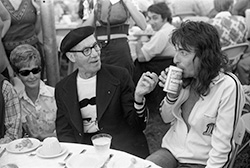
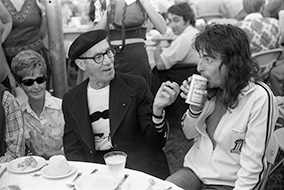
Changes made for Box Model assignment

diff --git a/gallery.html b/gallery.html
@@ -9,6 +9,7 @@
       <link rel="icon" type="image/x-icon" href="images/favicon.ico">
       <link rel="apple-touch-icon" href="images/apple-icon.png"/>
       <link rel="stylesheet" href="css/styles.css" />
+      <link rel="stylesheet" href="css/layout.css" />
    </head>
 
    <body>
@@ -17,57 +18,72 @@
         <h1>The Life of Groucho Marx</h1>
     </header>
 
-        <nav>
-            <a href="index.html">Home</a> | <a href="about.html">About</a> | <a href="gallery.html">Gallery</a> | <a href="faq.html">FAQs</a> | <a href="contact-us.html">Contact</a> 
-        </nav>
+    <nav class="topnav">
+        <a class="active" href="index.html">Home</a>
+        <a href="about.html">About</a>
+        <a href="gallery.html">Gallery</a>
+        <a href="faq.html">FAQs</a>
+        <a href="contact-us.html">Contact</a>
+    </nav>
 
         <h2>Rouge's Gallery</h2>
             
-            <figure>
-                <a href="images/gmarx01-lg.jpg" target="_blank"><img src="images/gmarx01-thumb.jpg" height="240" width="190" alt="Headshot of Groucho Marx"></a>
-                <figcaption><em>Headshot of Groucho Marx</em></figcaption>
-            </figure>
+            <article>
+                <h3>Mugshot</h3>
+                <figure>
+                    <a href="images/gmarx01-lg.jpg" target="_blank"><img src="images/gmarx01-thumb.jpg" height="190" width="100" alt="Headshot of Groucho Marx"></a>
+                    <figcaption><em>Headshot of Groucho Marx</em></figcaption>
+                </figure>
+                <p>In this portrait, we can see his iconic mustache, eyebrows, glasses, and cigar combo. Originally only a costume choice for his characters on stage, Marx eventually adopted it as his own personal look later in life.</p>
+            </article>
+
+            <article>
+                <h3>Brothers-in-Arms</h3>
+                <figure>
+                    <a href="images/gmarx02-lg.jpg" target="_blank"><img src="images/gmarx02-thumb.jpg" height="190" width="250" alt="Harpo & Groucho Marx"></a>
+                    <figcaption><em>Harpo & Groucho Marx</em></figcaption>
+                </figure>
+                <p>Groucho's younger brother, Harpo Marx often played the silly, silent foil to Groucho's loud, wise-cracking characters. The two remained close throughout their entire lives.</p>
+            </article>
+
+            <article>
+                <h3>Laidback</h3>
+                <figure>
+                    <a href="images/gmarx03-lg.jpg" target="_blank"><img src="images/gmarx03-thumb.jpg" height="190" width="250" alt="Groucho Marx in 'A Night at the Opera'"></a>
+                    <figcaption><em>Groucho Marx in "A Night at the Opera"</em></figcaption>
+                </figure>
+                <p>Like most comedic actors during the pre- and post-war period, Groucho's antics tended to be oriented around slapstick or oddball behavior. This exact film would later on inspire Freddie Mercury to create the renowned Queen album of the same name.</p>
+            </article>
+
+            <article>
+                <h3>Waddya Lookin' At?</h3>
+                <figure>
+                    <a href="images/gmarx04-lg.jpg" target="_blank"><img src="images/gmarx04-thumb.jpg" height="190" width="250" alt="Groucho heckling a crowd"></a>
+                    <figcaption><em>Groucho heckling a crowd</em></figcaption>
+                </figure>
+                <p>The Marx Brother's career began when the brothers started heckling a crowd of hecklers back during a shoddy singing performance. They stopped singing ever since.</p>
+            </article>
+
+            <article>
+                <h3>Ole' Pals</h3>
+                <figure>
+                    <a href="images/gmarx05-lg.jpg" target="_blank"><img src="images/gmarx05-thumb.jpg" height="190" width="250" alt="Groucho Marx and Alice Cooper dining together"></a>
+                    <figcaption><em>Groucho Marx and Alice Cooper dining together</em></figcaption>
+                </figure>
+                <p>Groucho Marx was close with many stars, including Alice Cooper, Elton John, and Dick Cavett. Elton John's album <em>Don't Shoot Me, I'm Only the Piano Player</em> was named after an exchange Marx had with John while drinking together.</p>
+            </article>
+
+            <article>
+                <h3>Birdie</h3>
+                <figure>
+                    <a href="images/gmarx06-lg.jpg" target="_blank"><img src="images/gmarx06-thumb.jpg" height="190" width="180" alt="Groucho slyly flying the finger"></a>
+                    <figcaption><em>Groucho slyly flying the finger</em></figcaption> 
+                </figure>
+                <p>A master of subtlty and brutish humor, Marx encapsulated the strange humor of turn-of-the-century men. Simultaneously sophisticated and boorish; relatable but ridiculous.</p>
+            </article>
+
+
             
-            <p>In this portrait, we can see his iconic mustache, eyebrows, glasses, and cigar combo. Originally only a costume choice for his characters on stage, Marx eventually adopted it as his own personal look later in life.</p>
-            
-
-            <figure>
-                <a href="images/gmarx02-lg.jpg" target="_blank"><img src="images/gmarx02-thumb.jpg" height="192" width="250" alt="Harpo & Groucho Marx"></a>
-                <figcaption><em>Harpo & Groucho Marx</em></figcaption>
-            </figure>
-
-            <p>Groucho's younger brother, Harpo Marx often played the silly, silent foil to Groucho's loud, wise-cracking characters. The two remained close throughout their entire lives.</p>
-
-            <figure>
-                <a href="images/gmarx03-lg.jpg" target="_blank"><img src="images/gmarx03-thumb.jpg" height="181" width="250" alt="Groucho Marx in 'A Night at the Opera'"></a>
-                <figcaption><em>Groucho Marx in "A Night at the Opera"</em></figcaption>
-            </figure>
-
-            <p>Like most comedic actors during the pre- and post-war period, Groucho's antics tended to be oriented around slapstick or oddball behavior. This exact film would later on inspire Freddie Mercury to create the renowned Queen album of the same name.</p>
-
-
-            <figure>
-                <a href="images/gmarx04-lg.jpg" target="_blank"><img src="images/gmarx04-thumb.jpg" height="183" width="250" alt="Groucho heckling a crowd"></a>
-                <figcaption><em>Groucho heckling a crowd</em></figcaption>
-            </figure>
-
-            <p>The Marx Brother's career began when the brothers started heckling a crowd of hecklers back during a shoddy singing performance. They stopped singing ever since.</p>
-
-            <figure>
-                <a href="images/gmarx05-lg.jpg" target="_blank"><img src="images/gmarx05-thumb.jpg" height="168" width="250" alt="Groucho Marx and Alice Cooper dining together"></a>
-                <figcaption><em>Groucho Marx and Alice Cooper dining together</em></figcaption>
-            </figure>
-
-            <p>Groucho Marx was close with many stars, including Alice Cooper, Elton John, and Dick Cavett. Elton John's album <em>Don't Shoot Me, I'm Only the Piano Player</em> was named after an exchange Marx had with John while drinking together.</p>
-
-
-            <figure>
-                <a href="images/gmarx06-lg.jpg" target="_blank"><img src="images/gmarx06-thumb.jpg" height="222" width="200" alt="Groucho slyly flying the finger"></a>
-                <figcaption><em>Groucho slyly flying the finger</em></figcaption> 
-            </figure>
-
-            <p>A master of subtlty and brutish humor, Marx encapsulated the strange humor of turn-of-the-century men. Simultaneously sophisticated and boorish; relatable but ridiculous.</p>
-
         <hr>
     
     <footer>

diff --git a/css/layout.css b/css/layout.css
@@ -1,0 +1,44 @@
+article {
+    float: left;
+    border: solid medium #d33b2d;
+    border-radius: 1em;
+    width: 45%;
+    margin: 2%;
+    margin-top: 1em;
+    margin-bottom: 2em ; 
+    clear: right;
+    border-style: double; }
+
+article h3 {
+    padding: 0 20px;
+    background-color: ;
+    border-radius: 7px 7px 0 0; 
+    font-family: Century Gothic, sans-serif;
+    font-size: 1.4em;
+    font-style: italic;
+    color: black; }
+
+article p {
+    padding: 0 20px 30px 35px; /*top right bottom left*/
+    clear: right; }
+
+article > p {
+    margin: 20px 50px; }
+  
+figure {
+    float: left;
+    margin: 2vh; }
+  
+figure img {
+    display: block; 
+    float: left;
+    height: 185px;
+    width: 185px;
+    margin-left: auto;
+    margin-right: auto; }
+  
+figcaption {
+    text-align: left;
+    clear: both;
+    color: #372920; 
+    padding: 10px; }

diff --git a/index.html b/index.html
@@ -17,9 +17,13 @@
          <h1>The Life of Groucho Marx</h1>
       </header>
 
-      <nav>
-         <a href="index.html">Home</a> | <a href="about.html">About</a> | <a href="gallery.html">Gallery</a> | <a href="faq.html">FAQs</a> | <a href="contact-us.html">Contact</a> 
-      </nav>
+      <nav class="topnav">
+         <a class="active" href="index.html">Home</a>
+         <a href="about.html">About</a>
+         <a href="gallery.html">Gallery</a>
+         <a href="faq.html">FAQs</a>
+         <a href="contact-us.html">Contact</a>
+     </nav>
 
       <section>
          <h2>America's Favorite Wise-Guy</h2>

diff --git a/faq.html b/faq.html
@@ -17,9 +17,13 @@
         <h1>The Life of Groucho Marx</h1>
     </header>
 
-        <nav>
-            <a href="index.html">Home</a> | <a href="about.html">About</a> | <a href="gallery.html">Gallery</a> | <a href="faq.html">FAQs</a> | <a href="contact-us.html">Contact</a> 
-        </nav>
+    <nav class="topnav">
+        <a class="active" href="index.html">Home</a>
+        <a href="about.html">About</a>
+        <a href="gallery.html">Gallery</a>
+        <a href="faq.html">FAQs</a>
+        <a href="contact-us.html">Contact</a>
+    </nav>
 
         <h2>FAQs</h2>
             <ol>

diff --git a/contact-us.html b/contact-us.html
@@ -25,8 +25,12 @@
         <h1>The Life of Groucho Marx</h1>
     </header>
 
-    <nav>
-        <a href="index.html">Home</a> | <a href="about.html">About</a> | <a href="gallery.html">Gallery</a> | <a href="faq.html">FAQs</a> | <a href="contact-us.html">Contact</a> 
+    <nav class="topnav">
+        <a class="active" href="index.html">Home</a>
+        <a href="about.html">About</a>
+        <a href="gallery.html">Gallery</a>
+        <a href="faq.html">FAQs</a>
+        <a href="contact-us.html">Contact</a>
     </nav>
     
     <section>

diff --git a/css/styles.css b/css/styles.css
@@ -5,7 +5,8 @@
     background-color: #e9e6c7; }
 
 nav { 
-    font-family: Century Gothic, sans-serif; }
+    font-family: Century Gothic, sans-serif; 
+    position: sticky; }
 
 h1 { 
     margin-bottom: 0; 
@@ -104,7 +105,9 @@ figcaption {
 hr {
     border: none;
     border-top: 1px solid black;
-    height: 1em; }
+    height: 1em; 
+    display: inline-block; 
+    width: 100%; }
 
 
 /* unvisited link */
